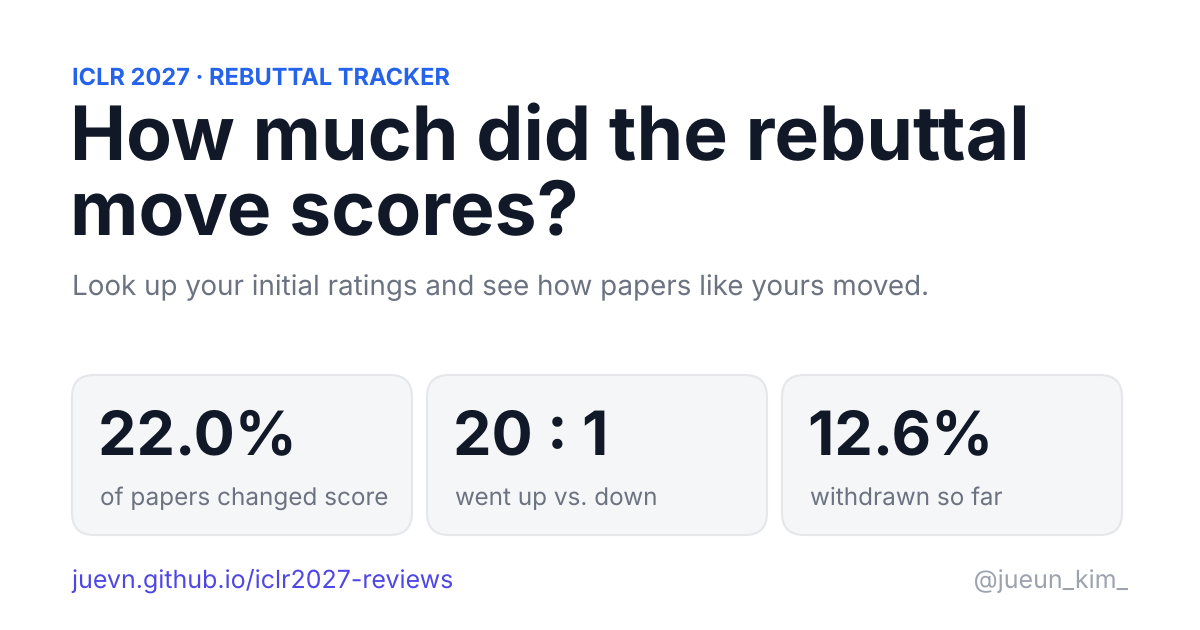
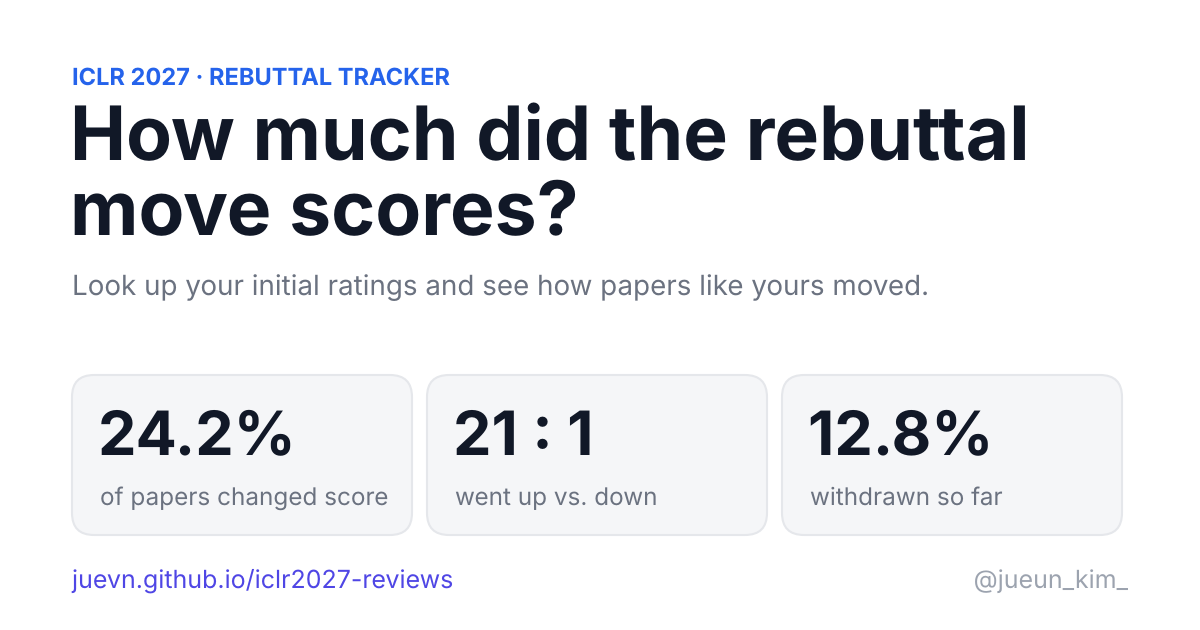
Update to 2026-11-18T07:10:05Z

Changed region(s): [[0.4008, 0.6333, 0.5242, 0.7238], [0.0925, 0.6333, 0.2467, 0.7238], [0.74, 0.6635, 0.7708, 0.7238]]

diff --git a/data.js b/data.js
@@ -5,81 +5,82 @@ window.ICLR_DATA = {
   venue: "ICLR 2027",
   scale: [1,4],
   baseline: {"at":"2026-11-06T13:54:47Z","source":"https://shiqiangw.github.io/iclr-2027-scores/","by":"shiqiangw"},
-  updated: "2026-11-18T03:09:50Z",
+  updated: "2026-11-18T07:10:05Z",
   discussionEnds: "2026-11-18",
   decisions: "2026-12-16",
   combos: {
-    "1":[2,0,0,0,0,0,0,0],"2":[2,0,0,0,0,0,0,0],"11":[27,9,0,13,0,0,0,0],"21":[73,14,0,30,1,0,0,1],"22":[104,6,0,60,5,0,0,5],"31":[24,0,0,13,2,0,0,3],
-    "32":[75,0,0,33,5,1,0,4],"33":[20,0,0,15,2,0,0,2],"41":[1,0,0,1,1,0,0,1],"42":[5,0,0,3,1,0,0,1],"43":[2,0,0,1,0,0,0,0],"44":[1,0,0,1,0,0,0,0],
-    "111":[764,230,0,532,9,0,0,11],"211":[3062,876,1,2173,114,17,0,117],"221":[6602,1730,5,4848,609,38,0,719],"222":[7463,1075,3,6363,1268,38,6,1535],"311":[651,126,1,519,47,25,1,29],"321":[3548,390,0,3147,633,59,3,733],
-    "322":[7667,157,2,7482,1980,71,5,2351],"331":[675,3,0,669,167,7,3,199],"332":[3733,7,1,3711,1121,47,4,1191],"333":[773,0,0,769,124,0,0,145],"411":[30,3,0,27,3,1,0,2],"421":[215,8,1,206,49,6,0,50],
-    "422":[418,1,0,417,119,10,1,141],"431":[79,0,0,77,16,1,0,26],"432":[515,1,0,512,165,6,0,169],"433":[198,0,0,195,30,1,0,32],"441":[6,0,0,6,1,0,1,2],"442":[40,0,0,39,16,0,1,19],
-    "443":[28,0,0,28,3,1,0,2],"444":[2,0,0,2,0,0,0,0],"1111":[29,4,1,24,0,0,0,0],"2111":[107,27,0,78,2,1,0,1],"2211":[245,71,0,174,7,1,0,7],"2221":[428,92,0,330,50,2,1,68],
-    "2222":[455,93,1,360,87,0,1,112],"3111":[17,5,0,12,0,1,0,-1],"3211":[111,19,0,91,11,4,0,11],"3221":[336,43,0,293,79,6,0,95],"3222":[565,37,0,525,176,4,1,209],"3311":[28,4,0,24,3,0,1,3],
-    "3321":[133,3,0,130,48,1,0,60],"3322":[435,2,0,425,140,6,0,177],"3331":[27,0,0,27,6,2,0,6],"3332":[156,0,0,155,56,1,0,61],"3333":[17,0,0,17,2,1,0,1],"4111":[1,1,0,0,0,0,0,0],
-    "4211":[8,0,0,8,1,0,0,3],"4221":[25,2,0,23,7,1,0,13],"4222":[40,0,0,40,16,0,0,19],"4311":[1,0,0,1,0,0,0,0],"4321":[28,0,0,28,5,3,0,0],"4322":[51,0,0,51,16,1,0,19],
+    "1":[2,0,0,0,0,0,0,0],"2":[2,0,0,0,0,0,0,0],"11":[27,9,0,13,1,0,0,2],"21":[73,15,0,30,1,0,0,1],"22":[104,6,0,60,5,0,0,5],"31":[24,0,0,13,2,0,0,3],
+    "32":[75,0,0,33,7,1,0,6],"33":[20,0,0,14,2,0,0,2],"41":[1,0,0,1,1,0,0,1],"42":[5,0,0,3,1,0,0,1],"43":[2,0,0,1,0,0,0,0],"44":[1,0,0,1,0,0,0,0],
+    "111":[764,231,0,531,10,0,0,12],"211":[3062,893,1,2156,125,18,0,129],"221":[6602,1768,5,4810,667,40,0,796],"222":[7463,1089,3,6350,1422,39,6,1732],"311":[651,128,1,517,51,25,2,33],"321":[3548,403,0,3133,690,60,3,805],
+    "322":[7667,159,2,7480,2192,75,6,2632],"331":[675,3,0,669,186,8,3,228],"332":[3733,7,1,3711,1204,54,4,1283],"333":[773,0,0,769,139,0,0,161],"411":[30,3,0,27,3,1,0,2],"421":[215,8,1,206,54,6,1,56],
+    "422":[418,1,0,417,135,9,2,162],"431":[79,0,0,77,17,1,0,28],"432":[515,1,0,512,182,6,0,187],"433":[198,0,0,195,33,1,0,35],"441":[6,0,0,6,1,0,1,2],"442":[40,0,0,39,16,0,1,19],
+    "443":[28,0,0,28,3,1,0,2],"444":[2,0,0,2,0,0,0,0],"1111":[29,4,1,24,0,0,0,0],"2111":[107,27,0,78,2,1,0,1],"2211":[245,72,0,173,10,1,0,11],"2221":[428,94,0,328,57,2,1,82],
+    "2222":[455,95,1,358,94,1,1,123],"3111":[17,5,0,12,0,1,0,-1],"3211":[111,19,0,91,12,4,0,12],"3221":[336,44,0,292,86,7,0,104],"3222":[565,37,0,525,193,4,1,239],"3311":[28,4,0,24,4,0,1,4],
+    "3321":[133,3,0,130,51,1,0,64],"3322":[435,2,0,425,161,6,0,204],"3331":[27,0,0,27,7,2,0,7],"3332":[156,0,0,155,59,1,0,64],"3333":[17,0,0,17,2,1,0,1],"4111":[1,1,0,0,0,0,0,0],
+    "4211":[8,0,0,8,1,0,0,3],"4221":[25,2,0,23,8,1,0,14],"4222":[40,0,0,40,16,0,0,19],"4311":[1,0,0,1,0,0,0,0],"4321":[28,0,0,28,9,3,0,4],"4322":[51,0,0,51,19,2,0,20],
     "4331":[8,0,0,8,3,0,0,4],"4332":[38,0,0,38,12,1,1,10],"4333":[7,0,0,7,0,0,0,0],"4421":[1,0,0,1,1,0,0,1],"4422":[3,0,0,3,2,0,0,2],"4431":[2,0,0,2,2,0,0,4],
     "4432":[3,0,0,3,0,0,0,0],"4433":[4,0,0,4,0,0,0,0],"4443":[1,0,0,1,0,0,0,0],"11111":[4,1,0,3,0,0,0,0],"21111":[6,2,0,4,0,0,0,0],"22111":[14,4,0,10,2,0,0,2],
-    "22211":[22,8,0,14,2,0,0,3],"22221":[32,8,0,24,5,0,0,8],"22222":[19,3,0,16,4,0,0,5],"32111":[8,2,0,6,1,0,0,1],"32211":[21,4,0,17,3,1,2,3],"32221":[29,9,0,20,5,0,0,7],
-    "32222":[37,4,0,33,12,0,0,13],"33211":[2,0,0,2,0,1,0,-1],"33221":[27,0,0,27,11,1,0,19],"33222":[46,2,0,44,16,0,1,24],"33311":[2,0,0,2,0,0,0,0],"33321":[4,0,0,4,2,0,0,2],
+    "22211":[22,8,0,14,2,0,0,3],"22221":[32,8,0,24,5,0,0,10],"22222":[19,3,0,16,5,0,0,6],"32111":[8,2,0,6,1,0,0,1],"32211":[21,4,0,17,3,1,2,3],"32221":[29,9,0,20,9,0,0,13],
+    "32222":[37,4,0,33,13,0,0,16],"33211":[2,0,0,2,0,1,0,-1],"33221":[27,0,0,27,11,1,0,19],"33222":[46,2,0,44,18,0,1,27],"33311":[2,0,0,2,0,0,0,0],"33321":[4,0,0,4,2,0,0,2],
     "33322":[14,0,0,14,6,0,0,8],"33331":[2,0,0,2,0,0,0,0],"33332":[7,0,0,7,4,0,0,5],"33333":[2,0,0,2,0,0,0,0],"42221":[3,0,0,3,1,0,0,1],"42222":[1,0,0,1,0,0,0,0],
-    "43211":[1,0,0,1,1,0,0,1],"43221":[1,0,0,1,1,0,0,1],"43222":[7,0,0,7,2,0,0,2],"43322":[2,0,0,2,1,0,0,1],"43331":[1,0,0,1,0,0,0,0],"43332":[4,0,0,4,2,0,0,3],
-    "43333":[1,0,0,1,0,0,0,0],"44311":[1,0,0,1,0,0,0,0],"44322":[3,0,0,3,1,0,0,1],"44332":[3,0,0,3,1,1,0,0],"211111":[1,1,0,0,0,0,0,0],"221111":[1,0,0,1,0,0,0,0],
+    "43211":[1,0,0,1,1,0,0,1],"43221":[1,0,0,1,1,0,0,1],"43222":[7,0,0,7,2,0,0,2],"43322":[2,0,0,2,1,0,0,1],"43331":[1,0,0,1,0,0,0,0],"43332":[4,0,0,4,2,0,0,4],
+    "43333":[1,0,0,1,0,0,0,0],"44311":[1,0,0,1,0,0,0,0],"44322":[3,0,0,3,1,0,0,1],"44332":[3,0,0,3,2,0,0,2],"211111":[1,1,0,0,0,0,0,0],"221111":[1,0,0,1,0,0,0,0],
     "222211":[2,1,0,1,0,0,0,0],"222221":[2,1,0,1,0,0,0,0],"322211":[1,0,0,1,0,0,0,0],"322221":[1,0,0,1,0,0,0,0],"322222":[3,0,0,3,1,0,0,1],"332222":[2,0,0,2,0,1,0,-1],
     "333222":[1,0,0,1,1,0,0,1],"432211":[1,0,0,1,1,0,0,1],"433321":[1,0,0,1,0,0,0,0],"2222211":[1,0,0,1,0,0,0,0]
   },
   // Mean rating now -> number of papers still under review, for ranking a score against today's field.
-  currentMeans: {"n":35472,"h":{"1.00":591,"1.20":5,"1.25":82,"1.33":2130,"1.40":8,"1.50":230,"1.60":23,"1.67":4883,"1.71":1,"1.75":380,"1.80":39,"1.83":2,"2.00":8916,"2.17":3,"2.20":52,"2.25":614,"2.33":7811,"2.40":55,"2.50":626,"2.60":40,"2.67":5020,"2.75":325,"2.80":17,"3.00":2787,"3.20":7,"3.25":51,"3.33":639,"3.40":2,"3.50":9,"3.67":107,"3.75":2,"4.00":15}},
+  currentMeans: {"n":35377,"h":{"1.00":589,"1.20":5,"1.25":83,"1.33":2104,"1.40":8,"1.50":225,"1.60":23,"1.67":4790,"1.71":1,"1.75":374,"1.80":39,"1.83":2,"2.00":8706,"2.17":3,"2.20":55,"2.25":603,"2.33":7745,"2.40":54,"2.50":617,"2.60":42,"2.67":5102,"2.75":351,"2.80":19,"3.00":2945,"3.20":6,"3.25":52,"3.33":686,"3.40":4,"3.50":9,"3.67":118,"3.75":2,"4.00":15}},
   // Review-level moves. exact: the pairing of initial and current ratings is unique.
   // inferred: more than one pairing fits, smallest-change one used.
-  reviews: {"analyzed":108518,"modified":27095,"changed":8646,"exact":7617,"inferred":1029,"initial":{"1":18111,"2":61959,"3":26585,"4":1863},"moves":{"2>3":5843,"1>2":986,"3>4":744,"2>4":356,"1>3":293,"2>1":192,"3>2":176,"4>3":20,"1>4":15,"3>1":14,"4>2":7}},
+  reviews: {"analyzed":108231,"modified":28774,"changed":9581,"exact":8425,"inferred":1156,"initial":{"1":18013,"2":61791,"3":26564,"4":1863},"moves":{"2>3":6537,"1>2":1073,"3>4":790,"2>4":394,"1>3":335,"2>1":208,"3>2":182,"4>3":21,"1>4":17,"3>1":16,"4>2":8}},
   // dest: initial ratings -> current ratings of the papers that changed (same number of reviews), with counts.
   dest: {
+    "11":{"31":1},
     "21":{"31":1},
     "22":{"32":5},
     "31":{"32":1,"42":1},
-    "32":{"22":1,"33":5},
+    "32":{"22":1,"33":7},
     "33":{"43":2},
     "41":{"42":1},
     "42":{"43":1},
-    "111":{"211":7,"221":1,"311":1},
-    "211":{"111":17,"221":80,"222":6,"311":19,"321":5,"322":2,"331":1,"422":1},
-    "221":{"211":38,"222":279,"321":212,"322":67,"331":23,"332":16,"333":4,"421":4,"422":1,"431":1,"432":2},
-    "222":{"221":38,"321":6,"322":1006,"331":1,"332":200,"333":30,"422":19,"432":10,"433":1,"442":1},
-    "311":{"111":3,"211":22,"221":1,"222":1,"321":34,"322":5,"331":1,"332":1,"411":3,"421":2},
-    "321":{"211":3,"221":44,"222":3,"311":12,"322":296,"331":179,"332":83,"333":21,"421":32,"422":3,"431":8,"432":7,"433":4},
-    "322":{"221":3,"222":38,"321":30,"331":5,"332":1449,"333":265,"422":129,"431":2,"432":92,"433":38,"442":3,"443":2},
-    "331":{"311":1,"321":6,"322":2,"332":97,"333":28,"421":1,"431":31,"432":7,"433":1,"441":3},
-    "332":{"222":1,"321":3,"322":26,"331":17,"333":796,"422":2,"431":2,"432":213,"433":93,"441":1,"442":9,"443":8,"444":1},
-    "333":{"433":105,"443":17,"444":2},
+    "111":{"211":8,"221":1,"311":1},
+    "211":{"111":18,"221":88,"222":7,"311":21,"321":4,"322":2,"331":2,"422":1},
+    "221":{"211":40,"222":306,"321":230,"322":73,"331":23,"332":21,"333":5,"421":4,"422":1,"431":2,"432":2},
+    "222":{"211":1,"221":38,"321":6,"322":1127,"331":1,"332":222,"333":39,"422":20,"432":9,"433":3,"442":1},
+    "311":{"111":3,"211":22,"221":2,"222":1,"321":38,"322":5,"331":1,"332":1,"411":3,"421":2},
+    "321":{"211":3,"221":44,"222":3,"311":13,"322":320,"331":196,"332":91,"333":23,"421":36,"422":3,"431":8,"432":9,"433":4},
+    "322":{"221":3,"222":39,"311":1,"321":32,"331":6,"332":1593,"333":321,"422":126,"431":2,"432":104,"433":41,"442":3,"443":2},
+    "331":{"311":1,"321":7,"322":2,"332":105,"333":37,"421":1,"431":32,"432":8,"441":3,"443":1},
+    "332":{"222":1,"321":4,"322":28,"331":21,"333":858,"422":2,"431":2,"432":220,"433":102,"441":1,"442":11,"443":11,"444":1},
+    "333":{"433":119,"443":18,"444":2},
     "411":{"211":1,"421":2,"422":1},
-    "421":{"222":1,"321":5,"422":18,"431":24,"432":7},
-    "422":{"222":1,"322":6,"421":3,"431":1,"432":88,"433":25,"442":4,"443":2},
-    "431":{"331":1,"432":5,"433":7,"441":2,"443":2},
-    "432":{"322":1,"422":2,"431":3,"433":125,"442":29,"443":11},
-    "433":{"333":1,"443":27,"444":3},
+    "421":{"222":1,"321":5,"322":1,"422":20,"431":26,"432":8},
+    "422":{"222":1,"322":5,"332":1,"421":3,"431":1,"432":100,"433":29,"442":4,"443":2},
+    "431":{"331":1,"432":5,"433":8,"441":2,"443":2},
+    "432":{"322":1,"411":1,"422":2,"431":2,"433":138,"442":30,"443":14},
+    "433":{"333":1,"443":30,"444":3},
     "441":{"432":1,"443":1},
     "442":{"433":1,"443":13,"444":3},
     "443":{"433":1,"444":3},
     "2111":{"1111":1,"2211":2},
-    "2211":{"2111":1,"2221":3,"2222":1,"3211":3},
-    "2221":{"2211":2,"2222":12,"3211":1,"3221":23,"3222":7,"3321":3,"3322":1,"3331":3,"4222":1},
-    "2222":{"3221":1,"3222":65,"3322":17,"3332":2,"4222":2,"4322":1},
+    "2211":{"2111":1,"2221":4,"2222":1,"3211":4,"3221":1},
+    "2221":{"2211":2,"2222":13,"3211":1,"3221":25,"3222":7,"3321":4,"3322":4,"3331":3,"4222":1},
+    "2222":{"2221":1,"3221":1,"3222":67,"3322":21,"3332":2,"4222":3,"4322":1},
     "3111":{"2111":1},
-    "3211":{"2211":4,"3221":7,"3321":2,"3322":1,"4211":1},
-    "3221":{"2211":1,"2221":4,"3211":1,"3222":29,"3321":29,"3322":11,"3331":3,"3332":3,"4221":1,"4321":3},
-    "3222":{"2222":2,"3221":2,"3321":1,"3322":130,"3332":24,"3333":4,"4222":14,"4322":3,"4332":1},
-    "3311":{"3221":1,"3321":2,"4311":1},
-    "3321":{"3221":1,"3322":20,"3331":16,"3332":4,"3333":2,"4321":4,"4332":1,"4333":1},
-    "3322":{"3222":4,"3321":2,"3332":90,"3333":16,"4322":13,"4332":14,"4333":6,"4422":1},
-    "3331":{"3321":2,"3332":4,"4332":2},
-    "3332":{"3322":1,"3333":41,"4332":9,"4333":4,"4432":2},
+    "3211":{"2211":4,"3221":8,"3321":2,"3322":1,"4211":1},
+    "3221":{"2111":1,"2221":5,"3211":1,"3222":30,"3321":32,"3322":13,"3331":4,"3332":2,"3333":1,"4221":1,"4321":3},
+    "3222":{"2222":2,"3221":2,"3321":1,"3322":134,"3332":34,"3333":5,"4222":15,"4322":4,"4332":1},
+    "3311":{"3221":1,"3321":2,"4311":2},
+    "3321":{"3221":1,"3322":21,"3331":17,"3332":5,"3333":2,"4321":4,"4332":1,"4333":1},
+    "3322":{"3222":4,"3321":2,"3332":105,"3333":19,"4322":14,"4332":15,"4333":6,"4422":1,"4432":1},
+    "3331":{"3321":2,"3332":4,"4331":1,"4332":2},
+    "3332":{"3322":1,"3333":43,"4332":10,"4333":4,"4432":2},
     "3333":{"3332":1,"4333":2},
     "4211":{"4322":1},
-    "4221":{"3221":1,"4222":1,"4321":2,"4322":2,"4431":1,"4432":1},
+    "4221":{"3221":1,"4222":1,"4321":3,"4322":2,"4431":1,"4432":1},
     "4222":{"4322":14,"4332":1,"4333":1},
-    "4321":{"3221":2,"3321":1,"4322":5},
-    "4322":{"3322":1,"4332":11,"4333":4,"4422":1},
+    "4321":{"3221":2,"3321":1,"4322":7,"4331":1,"4421":1},
+    "4322":{"3222":1,"3322":1,"4332":14,"4333":4,"4422":1},
     "4331":{"4332":1,"4431":1,"4432":1},
     "4332":{"3322":1,"3333":1,"4333":10,"4432":2},
     "4421":{"4422":1},
@@ -87,15 +88,15 @@ window.ICLR_DATA = {
     "4431":{"4432":1,"4443":1},
     "22111":{"22211":2},
     "22211":{"32211":1,"32221":1},
-    "22221":{"32221":3,"33321":1,"42221":1},
-    "22222":{"32222":3,"33222":1},
+    "22221":{"32221":2,"33321":2,"42221":1},
+    "22222":{"32222":4,"33222":1},
     "32111":{"32211":1},
     "32211":{"22211":1,"22221":2,"32221":2,"33221":1},
-    "32221":{"32222":2,"33221":2,"33322":1},
-    "32222":{"33222":11,"33322":1},
+    "32221":{"32222":3,"33221":4,"33322":2},
+    "32222":{"33222":11,"33322":1,"33332":1},
     "33211":{"33111":1},
     "33221":{"32221":1,"33222":2,"33321":4,"33322":2,"33332":1,"43321":1,"44431":1},
-    "33222":{"33321":1,"33322":9,"33332":3,"33333":1,"43222":2,"43333":1},
+    "33222":{"33321":1,"33322":10,"33332":4,"33333":1,"43222":2,"43333":1},
     "33321":{"33322":2},
     "33322":{"33332":4,"33333":1,"43332":1},
     "33332":{"33333":2,"43332":1,"43333":1},
@@ -104,16 +105,16 @@ window.ICLR_DATA = {
     "43221":{"43222":1},
     "43222":{"43322":2},
     "43322":{"43332":1},
-    "43332":{"43333":1,"44432":1},
+    "43332":{"44333":1,"44432":1},
     "44322":{"44332":1},
-    "44332":{"44331":1,"44432":1},
+    "44332":{"44432":2},
     "322222":{"332222":1},
     "332222":{"332221":1},
     "333222":{"333322":1},
     "432211":{"432221":1}
   },
   // moveTimes: changed reviews per move, by 3-hour UTC bucket of the review's last edit (a later text-only edit moves it).
-  moveTimes: {"2>3":{"2026-11-06T15":1,"2026-11-06T18":1,"2026-11-07T03":1,"2026-11-08T03":1,"2026-11-08T12":1,"2026-11-09T03":2,"2026-11-09T15":3,"2026-11-09T18":1,"2026-11-09T21":2,"2026-11-10T00":1,"2026-11-10T03":1,"2026-11-10T06":3,"2026-11-10T09":1,"2026-11-10T12":1,"2026-11-10T18":2,"2026-11-10T21":2,"2026-11-11T00":4,"2026-11-11T06":2,"2026-11-11T09":4,"2026-11-11T12":2,"2026-11-11T15":4,"2026-11-11T18":3,"2026-11-11T21":1,"2026-11-12T00":8,"2026-11-12T03":6,"2026-11-12T06":9,"2026-11-12T09":7,"2026-11-12T12":4,"2026-11-12T15":12,"2026-11-12T18":8,"2026-11-12T21":5,"2026-11-13T00":5,"2026-11-13T03":19,"2026-11-13T06":19,"2026-11-13T09":20,"2026-11-13T12":17,"2026-11-13T15":15,"2026-11-13T18":24,"2026-11-13T21":23,"2026-11-14T00":12,"2026-11-14T03":81,"2026-11-14T06":135,"2026-11-14T09":69,"2026-11-14T12":73,"2026-11-14T15":58,"2026-11-14T18":40,"2026-11-14T21":32,"2026-11-15T00":48,"2026-11-15T03":55,"2026-11-15T06":95,"2026-11-15T09":74,"2026-11-15T12":74,"2026-11-15T15":80,"2026-11-15T18":37,"2026-11-15T21":41,"2026-11-16T00":110,"2026-11-16T03":162,"2026-11-16T06":207,"2026-11-16T09":190,"2026-11-16T12":179,"2026-11-16T15":166,"2026-11-16T18":110,"2026-11-16T21":88,"2026-11-17T00":163,"2026-11-17T03":246,"2026-11-17T06":848,"2026-11-17T09":444,"2026-11-17T12":433,"2026-11-17T15":395,"2026-11-17T18":263,"2026-11-17T21":206,"2026-11-18T00":351,"2026-11-18T03":33},"1>2":{"2026-11-07T15":1,"2026-11-07T18":1,"2026-11-08T00":1,"2026-11-09T00":1,"2026-11-09T06":1,"2026-11-10T00":1,"2026-11-10T12":4,"2026-11-10T15":1,"2026-11-10T18":1,"2026-11-11T00":1,"2026-11-11T03":1,"2026-11-11T06":1,"2026-11-11T12":1,"2026-11-11T18":1,"2026-11-12T03":2,"2026-11-12T06":1,"2026-11-12T12":2,"2026-11-12T15":2,"2026-11-12T21":2,"2026-11-13T00":1,"2026-11-13T03":6,"2026-11-13T06":6,"2026-11-13T09":7,"2026-11-13T12":5,"2026-11-13T15":5,"2026-11-13T18":3,"2026-11-13T21":4,"2026-11-14T00":2,"2026-11-14T03":16,"2026-11-14T06":15,"2026-11-14T09":18,"2026-11-14T12":17,"2026-11-14T15":9,"2026-11-14T18":9,"2026-11-14T21":4,"2026-11-15T00":10,"2026-11-15T03":10,"2026-11-15T06":8,"2026-11-15T09":14,"2026-11-15T12":13,"2026-11-15T15":7,"2026-11-15T18":11,"2026-11-15T21":9,"2026-11-16T00":14,"2026-11-16T03":16,"2026-11-16T06":23,"2026-11-16T09":22,"2026-11-16T12":32,"2026-11-16T15":30,"2026-11-16T18":28,"2026-11-16T21":19,"2026-11-17T00":17,"2026-11-17T03":38,"2026-11-17T06":137,"2026-11-17T09":64,"2026-11-17T12":67,"2026-11-17T15":67,"2026-11-17T18":59,"2026-11-17T21":48,"2026-11-18T00":67,"2026-11-18T03":3},"3>4":{"2026-11-06T15":1,"2026-11-07T21":1,"2026-11-08T21":1,"2026-11-09T06":1,"2026-11-09T09":1,"2026-11-09T12":1,"2026-11-10T03":1,"2026-11-10T06":1,"2026-11-10T09":1,"2026-11-10T12":2,"2026-11-11T12":1,"2026-11-11T15":1,"2026-11-11T18":1,"2026-11-11T21":2,"2026-11-12T03":1,"2026-11-12T06":1,"2026-11-12T12":1,"2026-11-12T15":2,"2026-11-12T18":2,"2026-11-12T21":2,"2026-11-13T00":1,"2026-11-13T03":4,"2026-11-13T06":7,"2026-11-13T09":6,"2026-11-13T12":5,"2026-11-13T15":2,"2026-11-13T18":3,"2026-11-13T21":5,"2026-11-14T00":3,"2026-11-14T03":12,"2026-11-14T06":14,"2026-11-14T09":8,"2026-11-14T12":17,"2026-11-14T15":9,"2026-11-14T18":8,"2026-11-14T21":1,"2026-11-15T00":6,"2026-11-15T03":10,"2026-11-15T06":10,"2026-11-15T09":14,"2026-11-15T12":15,"2026-11-15T15":8,"2026-11-15T18":8,"2026-11-15T21":3,"2026-11-16T00":18,"2026-11-16T03":24,"2026-11-16T06":28,"2026-11-16T09":25,"2026-11-16T12":20,"2026-11-16T15":20,"2026-11-16T18":24,"2026-11-16T21":12,"2026-11-17T00":21,"2026-11-17T03":20,"2026-11-17T06":76,"2026-11-17T09":54,"2026-11-17T12":55,"2026-11-17T15":40,"2026-11-17T18":39,"2026-11-17T21":32,"2026-11-18T00":28,"2026-11-18T03":4},"2>4":{"2026-11-07T03":4,"2026-11-08T12":1,"2026-11-08T15":1,"2026-11-09T09":1,"2026-11-10T09":2,"2026-11-10T18":1,"2026-11-11T09":1,"2026-11-11T12":1,"2026-11-12T03":1,"2026-11-12T12":4,"2026-11-12T15":2,"2026-11-12T18":1,"2026-11-12T21":1,"2026-11-13T03":3,"2026-11-13T06":1,"2026-11-13T09":4,"2026-11-13T12":2,"2026-11-13T15":5,"2026-11-13T18":1,"2026-11-13T21":3,"2026-11-14T00":3,"2026-11-14T03":5,"2026-11-14T06":9,"2026-11-14T09":2,"2026-11-14T12":3,"2026-11-14T15":9,"2026-11-14T18":3,"2026-11-14T21":2,"2026-11-15T00":3,"2026-11-15T03":5,"2026-11-15T06":7,"2026-11-15T09":5,"2026-11-15T12":6,"2026-11-15T15":3,"2026-11-15T18":5,"2026-11-15T21":2,"2026-11-16T00":6,"2026-11-16T03":7,"2026-11-16T06":10,"2026-11-16T09":9,"2026-11-16T12":10,"2026-11-16T15":8,"2026-11-16T18":8,"2026-11-16T21":7,"2026-11-17T00":14,"2026-11-17T03":15,"2026-11-17T06":41,"2026-11-17T09":20,"2026-11-17T12":21,"2026-11-17T15":16,"2026-11-17T18":11,"2026-11-17T21":16,"2026-11-18T00":23,"2026-11-18T03":2},"1>3":{"2026-11-12T00":1,"2026-11-12T03":1,"2026-11-12T06":1,"2026-11-12T15":2,"2026-11-12T18":3,"2026-11-12T21":1,"2026-11-13T00":1,"2026-11-13T03":1,"2026-11-13T06":1,"2026-11-13T09":1,"2026-11-13T12":2,"2026-11-13T15":2,"2026-11-13T18":2,"2026-11-13T21":4,"2026-11-14T03":2,"2026-11-14T06":8,"2026-11-14T09":3,"2026-11-14T15":5,"2026-11-14T18":6,"2026-11-14T21":1,"2026-11-15T00":4,"2026-11-15T03":2,"2026-11-15T06":2,"2026-11-15T09":2,"2026-11-15T12":5,"2026-11-15T15":5,"2026-11-15T18":4,"2026-11-15T21":9,"2026-11-16T00":2,"2026-11-16T03":9,"2026-11-16T06":9,"2026-11-16T09":4,"2026-11-16T12":7,"2026-11-16T15":4,"2026-11-16T18":6,"2026-11-16T21":6,"2026-11-17T00":5,"2026-11-17T03":11,"2026-11-17T06":34,"2026-11-17T09":16,"2026-11-17T12":23,"2026-11-17T15":19,"2026-11-17T18":17,"2026-11-17T21":15,"2026-11-18T00":25},"2>1":{"2026-11-06T12":2,"2026-11-06T15":3,"2026-11-06T18":2,"2026-11-07T00":1,"2026-11-07T03":3,"2026-11-07T06":1,"2026-11-07T09":1,"2026-11-07T12":1,"2026-11-08T15":1,"2026-11-09T03":1,"2026-11-09T06":1,"2026-11-09T09":1,"2026-11-09T18":1,"2026-11-10T18":1,"2026-11-11T09":1,"2026-11-11T12":1,"2026-11-12T00":1,"2026-11-12T03":2,"2026-11-12T12":2,"2026-11-13T06":2,"2026-11-13T09":3,"2026-11-13T15":1,"2026-11-13T21":3,"2026-11-14T03":7,"2026-11-14T06":6,"2026-11-14T09":4,"2026-11-14T12":1,"2026-11-14T15":2,"2026-11-14T18":4,"2026-11-15T00":1,"2026-11-15T06":2,"2026-11-15T09":3,"2026-11-15T12":3,"2026-11-15T15":3,"2026-11-15T18":5,"2026-11-16T00":2,"2026-11-16T03":6,"2026-11-16T06":7,"2026-11-16T09":2,"2026-11-16T12":6,"2026-11-16T15":2,"2026-11-16T18":8,"2026-11-16T21":1,"2026-11-17T00":6,"2026-11-17T03":3,"2026-11-17T06":27,"2026-11-17T09":5,"2026-11-17T12":7,"2026-11-17T15":16,"2026-11-17T18":4,"2026-11-17T21":8,"2026-11-18T00":4,"2026-11-18T03":1},"3>2":{"2026-11-06T12":2,"2026-11-06T15":2,"2026-11-06T18":1,"2026-11-06T21":1,"2026-11-07T03":2,"2026-11-07T06":1,"2026-11-07T09":1,"2026-11-08T03":1,"2026-11-08T15":1,"2026-11-09T03":1,"2026-11-09T15":1,"2026-11-11T09":1,"2026-11-11T12":2,"2026-11-12T00":1,"2026-11-12T09":2,"2026-11-13T03":1,"2026-11-13T06":1,"2026-11-14T03":4,"2026-11-14T06":4,"2026-11-14T09":2,"2026-11-14T12":2,"2026-11-14T15":2,"2026-11-14T18":4,"2026-11-15T00":1,"2026-11-15T03":2,"2026-11-15T09":2,"2026-11-15T12":1,"2026-11-15T15":1,"2026-11-15T18":3,"2026-11-16T00":2,"2026-11-16T03":6,"2026-11-16T06":8,"2026-11-16T09":2,"2026-11-16T12":4,"2026-11-16T15":4,"2026-11-16T18":3,"2026-11-16T21":3,"2026-11-17T00":8,"2026-11-17T03":11,"2026-11-17T06":23,"2026-11-17T09":9,"2026-11-17T12":6,"2026-11-17T15":15,"2026-11-17T18":9,"2026-11-17T21":4,"2026-11-18T00":9},"4>3":{"2026-11-06T12":2,"2026-11-07T15":1,"2026-11-11T06":1,"2026-11-11T12":1,"2026-11-13T06":1,"2026-11-13T09":1,"2026-11-14T06":1,"2026-11-15T21":1,"2026-11-16T00":1,"2026-11-16T06":1,"2026-11-16T15":1,"2026-11-17T00":1,"2026-11-17T03":1,"2026-11-17T06":1,"2026-11-17T12":1,"2026-11-17T18":1,"2026-11-18T00":2,"2026-11-18T03":1},"1>4":{"2026-11-13T09":1,"2026-11-14T06":1,"2026-11-15T12":2,"2026-11-16T09":2,"2026-11-16T15":2,"2026-11-16T21":1,"2026-11-17T00":1,"2026-11-17T03":1,"2026-11-17T06":1,"2026-11-17T15":1,"2026-11-17T18":2},"3>1":{"2026-11-07T03":1,"2026-11-14T03":1,"2026-11-15T06":1,"2026-11-15T09":1,"2026-11-15T21":1,"2026-11-16T00":1,"2026-11-16T03":1,"2026-11-16T06":2,"2026-11-16T15":2,"2026-11-16T18":1,"2026-11-17T06":2},"4>2":{"2026-11-13T06":1,"2026-11-16T12":1,"2026-11-16T15":1,"2026-11-17T00":1,"2026-11-17T06":1,"2026-11-17T09":1,"2026-11-17T18":1}},
+  moveTimes: {"2>3":{"2026-11-06T15":1,"2026-11-06T18":2,"2026-11-07T03":1,"2026-11-08T03":1,"2026-11-08T12":1,"2026-11-09T03":2,"2026-11-09T15":3,"2026-11-09T18":1,"2026-11-09T21":2,"2026-11-10T00":1,"2026-11-10T03":1,"2026-11-10T06":3,"2026-11-10T09":1,"2026-11-10T12":1,"2026-11-10T18":2,"2026-11-10T21":2,"2026-11-11T00":4,"2026-11-11T06":2,"2026-11-11T09":4,"2026-11-11T12":3,"2026-11-11T15":3,"2026-11-11T18":3,"2026-11-11T21":1,"2026-11-12T00":8,"2026-11-12T03":6,"2026-11-12T06":8,"2026-11-12T09":6,"2026-11-12T12":4,"2026-11-12T15":12,"2026-11-12T18":8,"2026-11-12T21":5,"2026-11-13T00":5,"2026-11-13T03":19,"2026-11-13T06":18,"2026-11-13T09":20,"2026-11-13T12":17,"2026-11-13T15":15,"2026-11-13T18":24,"2026-11-13T21":22,"2026-11-14T00":12,"2026-11-14T03":79,"2026-11-14T06":135,"2026-11-14T09":70,"2026-11-14T12":72,"2026-11-14T15":57,"2026-11-14T18":42,"2026-11-14T21":32,"2026-11-15T00":49,"2026-11-15T03":55,"2026-11-15T06":93,"2026-11-15T09":75,"2026-11-15T12":74,"2026-11-15T15":79,"2026-11-15T18":37,"2026-11-15T21":41,"2026-11-16T00":109,"2026-11-16T03":161,"2026-11-16T06":205,"2026-11-16T09":187,"2026-11-16T12":176,"2026-11-16T15":162,"2026-11-16T18":108,"2026-11-16T21":87,"2026-11-17T00":161,"2026-11-17T03":237,"2026-11-17T06":849,"2026-11-17T09":436,"2026-11-17T12":425,"2026-11-17T15":395,"2026-11-17T18":261,"2026-11-17T21":204,"2026-11-18T00":342,"2026-11-18T03":550,"2026-11-18T06":238},"1>2":{"2026-11-06T18":1,"2026-11-07T15":1,"2026-11-07T18":1,"2026-11-08T00":1,"2026-11-09T00":1,"2026-11-09T06":1,"2026-11-10T00":1,"2026-11-10T12":4,"2026-11-10T15":1,"2026-11-10T18":1,"2026-11-11T00":1,"2026-11-11T03":1,"2026-11-11T06":1,"2026-11-11T12":1,"2026-11-11T18":1,"2026-11-12T03":2,"2026-11-12T06":1,"2026-11-12T12":2,"2026-11-12T15":2,"2026-11-12T21":2,"2026-11-13T00":1,"2026-11-13T03":6,"2026-11-13T06":6,"2026-11-13T09":7,"2026-11-13T12":5,"2026-11-13T15":5,"2026-11-13T18":3,"2026-11-13T21":4,"2026-11-14T00":2,"2026-11-14T03":15,"2026-11-14T06":19,"2026-11-14T09":20,"2026-11-14T12":16,"2026-11-14T15":9,"2026-11-14T18":10,"2026-11-14T21":4,"2026-11-15T00":10,"2026-11-15T03":10,"2026-11-15T06":8,"2026-11-15T09":13,"2026-11-15T12":11,"2026-11-15T15":8,"2026-11-15T18":10,"2026-11-15T21":9,"2026-11-16T00":14,"2026-11-16T03":17,"2026-11-16T06":23,"2026-11-16T09":22,"2026-11-16T12":32,"2026-11-16T15":29,"2026-11-16T18":26,"2026-11-16T21":19,"2026-11-17T00":17,"2026-11-17T03":37,"2026-11-17T06":136,"2026-11-17T09":63,"2026-11-17T12":66,"2026-11-17T15":67,"2026-11-17T18":59,"2026-11-17T21":48,"2026-11-18T00":61,"2026-11-18T03":64,"2026-11-18T06":35},"3>4":{"2026-11-06T15":1,"2026-11-07T21":1,"2026-11-08T21":1,"2026-11-09T06":1,"2026-11-09T09":1,"2026-11-09T12":1,"2026-11-10T03":1,"2026-11-10T06":1,"2026-11-10T09":1,"2026-11-10T12":2,"2026-11-11T12":1,"2026-11-11T15":1,"2026-11-11T18":1,"2026-11-11T21":2,"2026-11-12T03":1,"2026-11-12T06":1,"2026-11-12T12":1,"2026-11-12T15":2,"2026-11-12T18":2,"2026-11-12T21":2,"2026-11-13T00":1,"2026-11-13T03":4,"2026-11-13T06":7,"2026-11-13T09":6,"2026-11-13T12":5,"2026-11-13T15":2,"2026-11-13T18":3,"2026-11-13T21":5,"2026-11-14T00":3,"2026-11-14T03":10,"2026-11-14T06":14,"2026-11-14T09":8,"2026-11-14T12":16,"2026-11-14T15":8,"2026-11-14T18":8,"2026-11-14T21":1,"2026-11-15T00":6,"2026-11-15T03":10,"2026-11-15T06":8,"2026-11-15T09":15,"2026-11-15T12":15,"2026-11-15T15":8,"2026-11-15T18":8,"2026-11-15T21":3,"2026-11-16T00":18,"2026-11-16T03":24,"2026-11-16T06":28,"2026-11-16T09":24,"2026-11-16T12":20,"2026-11-16T15":19,"2026-11-16T18":24,"2026-11-16T21":12,"2026-11-17T00":20,"2026-11-17T03":19,"2026-11-17T06":73,"2026-11-17T09":53,"2026-11-17T12":54,"2026-11-17T15":38,"2026-11-17T18":37,"2026-11-17T21":32,"2026-11-18T00":25,"2026-11-18T03":49,"2026-11-18T06":22},"2>4":{"2026-11-07T03":4,"2026-11-08T12":1,"2026-11-08T15":1,"2026-11-09T09":1,"2026-11-10T09":2,"2026-11-10T18":1,"2026-11-11T09":1,"2026-11-11T12":1,"2026-11-12T03":1,"2026-11-12T12":4,"2026-11-12T15":2,"2026-11-12T18":1,"2026-11-12T21":1,"2026-11-13T03":3,"2026-11-13T09":4,"2026-11-13T12":2,"2026-11-13T15":5,"2026-11-13T18":1,"2026-11-13T21":3,"2026-11-14T00":3,"2026-11-14T03":7,"2026-11-14T06":9,"2026-11-14T09":2,"2026-11-14T12":4,"2026-11-14T15":10,"2026-11-14T18":3,"2026-11-14T21":2,"2026-11-15T00":3,"2026-11-15T03":5,"2026-11-15T06":9,"2026-11-15T09":4,"2026-11-15T12":6,"2026-11-15T15":3,"2026-11-15T18":5,"2026-11-15T21":2,"2026-11-16T00":6,"2026-11-16T03":7,"2026-11-16T06":10,"2026-11-16T09":10,"2026-11-16T12":10,"2026-11-16T15":9,"2026-11-16T18":8,"2026-11-16T21":7,"2026-11-17T00":15,"2026-11-17T03":16,"2026-11-17T06":43,"2026-11-17T09":21,"2026-11-17T12":22,"2026-11-17T15":18,"2026-11-17T18":12,"2026-11-17T21":15,"2026-11-18T00":26,"2026-11-18T03":13,"2026-11-18T06":10},"1>3":{"2026-11-12T00":1,"2026-11-12T03":1,"2026-11-12T06":2,"2026-11-12T09":1,"2026-11-12T15":2,"2026-11-12T18":3,"2026-11-12T21":1,"2026-11-13T00":1,"2026-11-13T03":1,"2026-11-13T06":1,"2026-11-13T09":1,"2026-11-13T12":2,"2026-11-13T15":2,"2026-11-13T18":2,"2026-11-13T21":5,"2026-11-14T03":2,"2026-11-14T06":8,"2026-11-14T09":3,"2026-11-14T15":6,"2026-11-14T18":6,"2026-11-14T21":1,"2026-11-15T00":4,"2026-11-15T03":2,"2026-11-15T06":3,"2026-11-15T09":2,"2026-11-15T12":5,"2026-11-15T15":5,"2026-11-15T18":4,"2026-11-15T21":9,"2026-11-16T00":2,"2026-11-16T03":9,"2026-11-16T06":9,"2026-11-16T09":4,"2026-11-16T12":7,"2026-11-16T15":5,"2026-11-16T18":6,"2026-11-16T21":5,"2026-11-17T00":5,"2026-11-17T03":12,"2026-11-17T06":35,"2026-11-17T09":16,"2026-11-17T12":24,"2026-11-17T15":19,"2026-11-17T18":17,"2026-11-17T21":15,"2026-11-18T00":26,"2026-11-18T03":23,"2026-11-18T06":10},"2>1":{"2026-11-06T12":2,"2026-11-06T15":2,"2026-11-06T18":2,"2026-11-07T00":1,"2026-11-07T03":3,"2026-11-07T06":1,"2026-11-07T09":1,"2026-11-07T12":1,"2026-11-08T15":1,"2026-11-09T03":1,"2026-11-09T06":1,"2026-11-09T09":1,"2026-11-09T18":1,"2026-11-10T18":1,"2026-11-11T09":1,"2026-11-11T12":1,"2026-11-12T00":1,"2026-11-12T03":2,"2026-11-12T12":2,"2026-11-13T06":2,"2026-11-13T09":3,"2026-11-13T15":1,"2026-11-13T21":3,"2026-11-14T03":7,"2026-11-14T06":6,"2026-11-14T09":4,"2026-11-14T12":1,"2026-11-14T15":2,"2026-11-14T18":3,"2026-11-15T00":1,"2026-11-15T06":2,"2026-11-15T09":3,"2026-11-15T12":3,"2026-11-15T15":3,"2026-11-15T18":5,"2026-11-16T00":2,"2026-11-16T03":6,"2026-11-16T06":7,"2026-11-16T09":2,"2026-11-16T12":6,"2026-11-16T15":2,"2026-11-16T18":8,"2026-11-16T21":1,"2026-11-17T00":6,"2026-11-17T03":3,"2026-11-17T06":26,"2026-11-17T09":5,"2026-11-17T12":7,"2026-11-17T15":15,"2026-11-17T18":4,"2026-11-17T21":8,"2026-11-18T00":4,"2026-11-18T03":12,"2026-11-18T06":9},"3>2":{"2026-11-06T12":2,"2026-11-06T15":2,"2026-11-06T18":1,"2026-11-06T21":1,"2026-11-07T03":2,"2026-11-07T09":1,"2026-11-08T03":1,"2026-11-08T15":1,"2026-11-09T03":1,"2026-11-09T15":1,"2026-11-11T09":1,"2026-11-11T12":2,"2026-11-12T09":1,"2026-11-13T03":1,"2026-11-13T06":1,"2026-11-14T03":4,"2026-11-14T06":3,"2026-11-14T09":2,"2026-11-14T12":2,"2026-11-14T15":1,"2026-11-14T18":4,"2026-11-15T00":1,"2026-11-15T03":2,"2026-11-15T09":2,"2026-11-15T12":1,"2026-11-15T15":1,"2026-11-15T18":3,"2026-11-16T00":2,"2026-11-16T03":6,"2026-11-16T06":7,"2026-11-16T09":2,"2026-11-16T12":4,"2026-11-16T15":4,"2026-11-16T18":3,"2026-11-16T21":3,"2026-11-17T00":8,"2026-11-17T03":11,"2026-11-17T06":23,"2026-11-17T09":9,"2026-11-17T12":6,"2026-11-17T15":15,"2026-11-17T18":9,"2026-11-17T21":4,"2026-11-18T00":10,"2026-11-18T03":7,"2026-11-18T06":4},"4>3":{"2026-11-06T12":2,"2026-11-07T15":1,"2026-11-11T06":1,"2026-11-13T06":1,"2026-11-13T09":1,"2026-11-14T06":1,"2026-11-15T21":1,"2026-11-16T00":1,"2026-11-16T06":1,"2026-11-16T15":1,"2026-11-17T00":1,"2026-11-17T03":1,"2026-11-17T06":1,"2026-11-17T12":1,"2026-11-17T18":1,"2026-11-18T00":2,"2026-11-18T03":1,"2026-11-18T06":2},"1>4":{"2026-11-13T09":1,"2026-11-14T06":1,"2026-11-15T12":2,"2026-11-16T09":2,"2026-11-16T15":2,"2026-11-16T21":1,"2026-11-17T00":1,"2026-11-17T03":1,"2026-11-17T06":1,"2026-11-17T15":1,"2026-11-17T18":3,"2026-11-18T03":1},"3>1":{"2026-11-07T03":1,"2026-11-14T03":1,"2026-11-15T06":1,"2026-11-15T09":1,"2026-11-15T21":1,"2026-11-16T00":1,"2026-11-16T03":1,"2026-11-16T06":2,"2026-11-16T15":2,"2026-11-17T06":2,"2026-11-18T03":2,"2026-11-18T06":1},"4>2":{"2026-11-13T06":1,"2026-11-16T12":1,"2026-11-16T15":1,"2026-11-17T00":1,"2026-11-17T06":1,"2026-11-17T09":1,"2026-11-17T18":1,"2026-11-18T06":1}},
   // One row per update: papers still active with the same number of reviews, and how many moved.
   timeline: [
     {"at":"2026-11-06T13:54:47Z","sc":40458,"up":0,"down":0,"mixed":0,"withdrawn":0},
@@ -128,6 +129,7 @@ window.ICLR_DATA = {
     {"at":"2026-11-17T07:10:04Z","sc":35950,"up":4674,"down":304,"mixed":21,"withdrawn":4212},
     {"at":"2026-11-17T11:33:53Z","sc":35532,"up":5485,"down":321,"mixed":25,"withdrawn":4632},
     {"at":"2026-11-18T00:42:04Z","sc":35127,"up":6976,"down":359,"mixed":32,"withdrawn":5029},
-    {"at":"2026-11-18T03:09:50Z","sc":35068,"up":7309,"down":370,"mixed":33,"withdrawn":5089}
+    {"at":"2026-11-18T03:09:50Z","sc":35068,"up":7309,"down":370,"mixed":33,"withdrawn":5089},
+    {"at":"2026-11-18T07:10:05Z","sc":34974,"up":8056,"down":388,"mixed":37,"withdrawn":5183}
   ]
 };

diff --git a/README.md b/README.md
@@ -40,7 +40,7 @@ How much did the ICLR 2027 rebuttal move review scores? Every paper's initial re
 - **Initial scores.** The snapshot taken right after reviews were released (Nov 6, 13:54 UTC), published at [shiqiangw.github.io/iclr-2027-scores](https://shiqiangw.github.io/iclr-2027-scores/) ([repo](https://github.com/shiqiangw/iclr-2027-scores)), about a day after reviews were released.
 - **Current ratings.** The OpenReview API: every ICLR 2027 submission with its official reviews.
 - **Score changes.** A paper's scores now against its initial scores. Only papers still under review with the same number of reviews are counted.
-- **Review-level moves.** Reviews not edited since the snapshot keep their initial rating, which pins down the rest. When several reviews on one paper were edited and more than one pairing fits, edits that kept the rating count as text-only and the rest are paired by smallest change. This applies to 1,029 of 8,646 changed reviews (12%, as of Nov 18); the rest are pinned down exactly.
+- **Review-level moves.** Reviews not edited since the snapshot keep their initial rating, which pins down the rest. When several reviews on one paper were edited and more than one pairing fits, edits that kept the rating count as text-only and the rest are paired by smallest change. This applies to 1,156 of 9,581 changed reviews (12%, as of Nov 18); the rest are pinned down exactly.
 - **Privacy.** Only counts are published. No review text, reviewer ids, paper titles or author names.
 
 Made by [Jueun Kim](https://juevn.github.io/) ([@jueun_kim_](https://x.com/jueun_kim_)). Also: [NeurIPS 2026 Explorer](https://juevn.github.io/neurips2026/).
